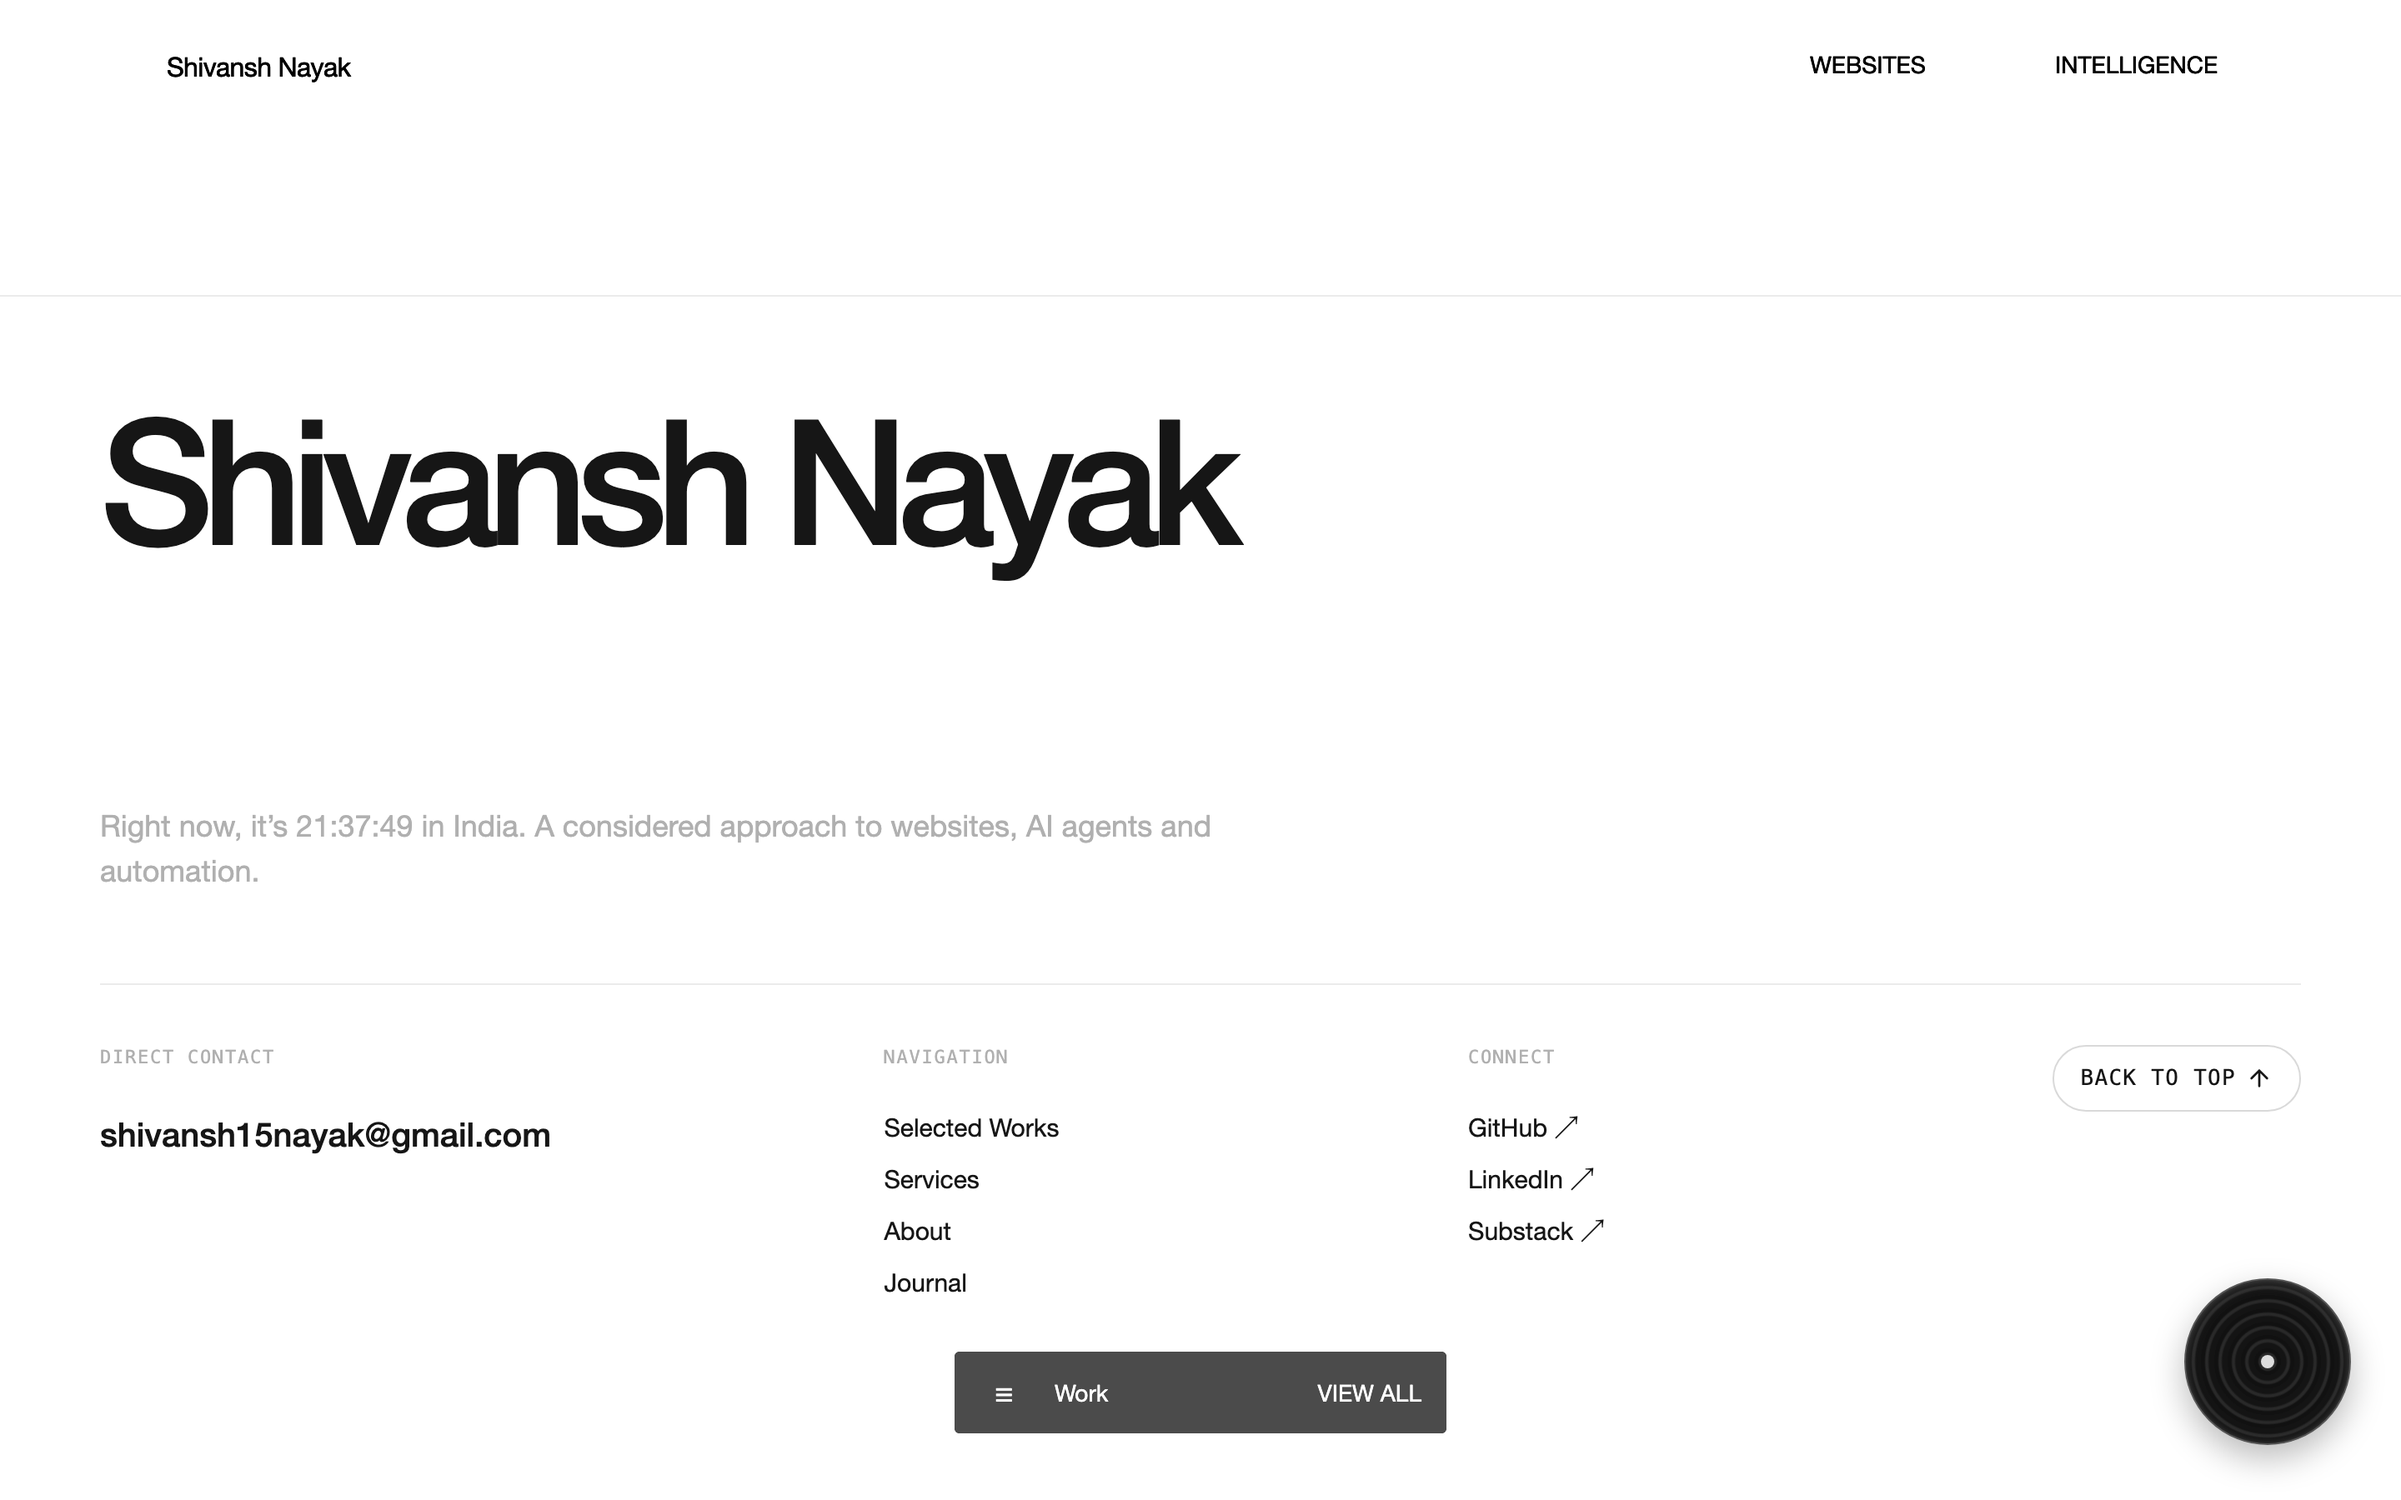
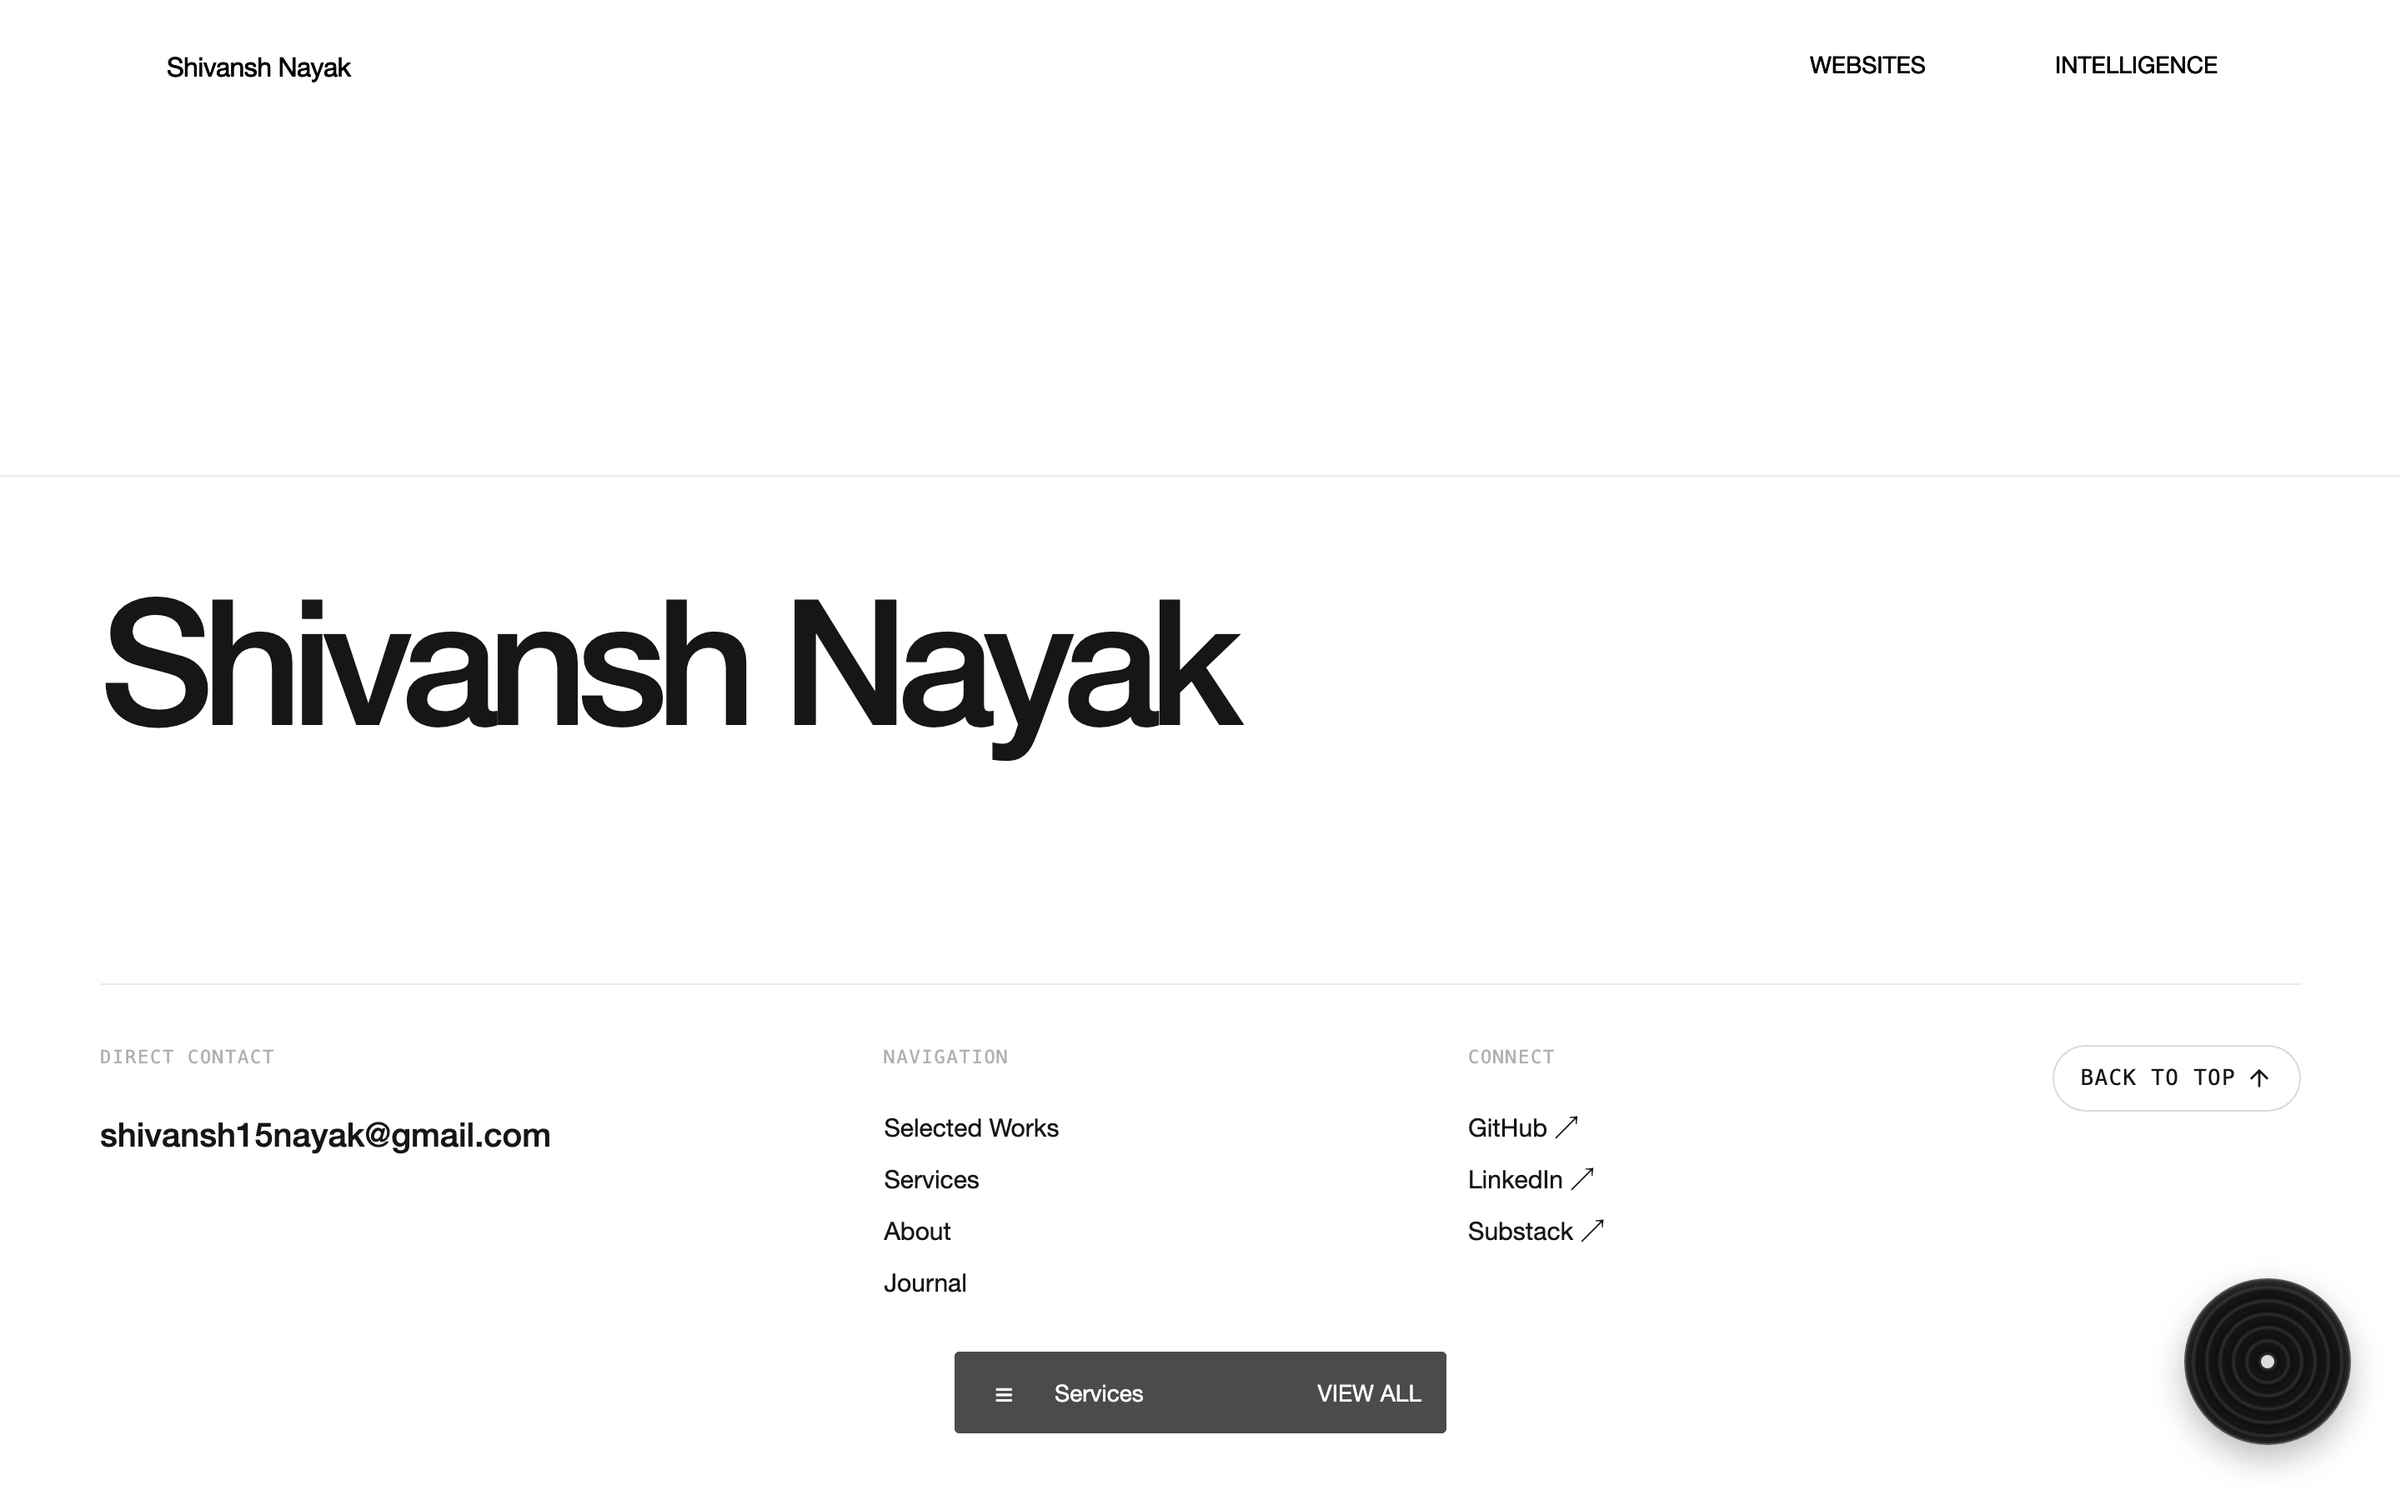
chore: remove dynamic status and clock line from footer

Changed region(s): [[0.0312, 0.28, 0.5312, 0.5911], [0.4375, 0.9022, 0.4688, 0.9333]]

diff --git a/web/site/shell.js b/web/site/shell.js
@@ -83,7 +83,6 @@ function shellParts() {
     </div><footer class="site-footer">
       <div class="footer-top">
         <div class="footer-logo"><a href="/">${profile.mark}</a></div>
-        <p class="footer-status" id="status"></p>
       </div>
       <div class="footer-bottom">
         <div class="footer-col contact-col">
@@ -180,20 +179,6 @@ export function boot(start) {
   setInterval(() => {
     document.querySelectorAll('[data-clock]').forEach(el => { el.textContent = clock(); });
   }, 1000);
-
-  const status = document.getElementById('status');
-  let si = 0;
-  const writeStatus = (first) => {
-    const next = `Right now, it’s ${clock()} in ${profile.place}. ${profile.status[si % profile.status.length]}`;
-    si += 1;
-    if (first || reduce) { status.textContent = next; return; }
-    gsap.to(status, {opacity: 0, duration: 0.25, onComplete: () => {
-      status.textContent = next;
-      gsap.to(status, {opacity: 1, duration: 0.35});
-    }});
-  };
-  writeStatus(true);
-  if (!reduce) setInterval(() => writeStatus(false), 8000);
 
   const bottomNav = document.querySelector('.bottom-nav');
   const navToggle = bottomNav.querySelector('.bottom-nav__toggle');

diff --git a/web/site/site.css b/web/site/site.css
@@ -196,13 +196,8 @@ footer.site-footer {
 .footer-logo a:hover {
   opacity: .75;
 }
-.footer-status {
-  max-width: 720px;
-  font-size: clamp(15px, 1.35vw, 18px);
-  line-height: 1.5;
-  margin: 32px 0 54px;
-  min-height: 2.6em;
-  color: var(--gray);
+.footer-top {
+  margin-bottom: clamp(48px, 6vw, 84px);
 }
 .footer-bottom {
   display: grid;
@@ -769,7 +764,6 @@ footer.site-footer {
 footer.site-footer {padding:60px 60px 120px;}
 .footer-logo {margin-bottom:clamp(50px,10vw,150px);}
 .footer-logo a {font-size:clamp(30px,7.5vw,105px);max-width:800px;line-height:.95;white-space:nowrap;letter-spacing:-.065em;}
-.footer-status {margin-top:0;}
 button,a,input,textarea {touch-action:manipulation;}
 :focus-visible {outline:2px solid currentColor;outline-offset:5px;}
 @media(max-width:1200px) {footer.site-footer {padding:50px 50px 120px;}}
